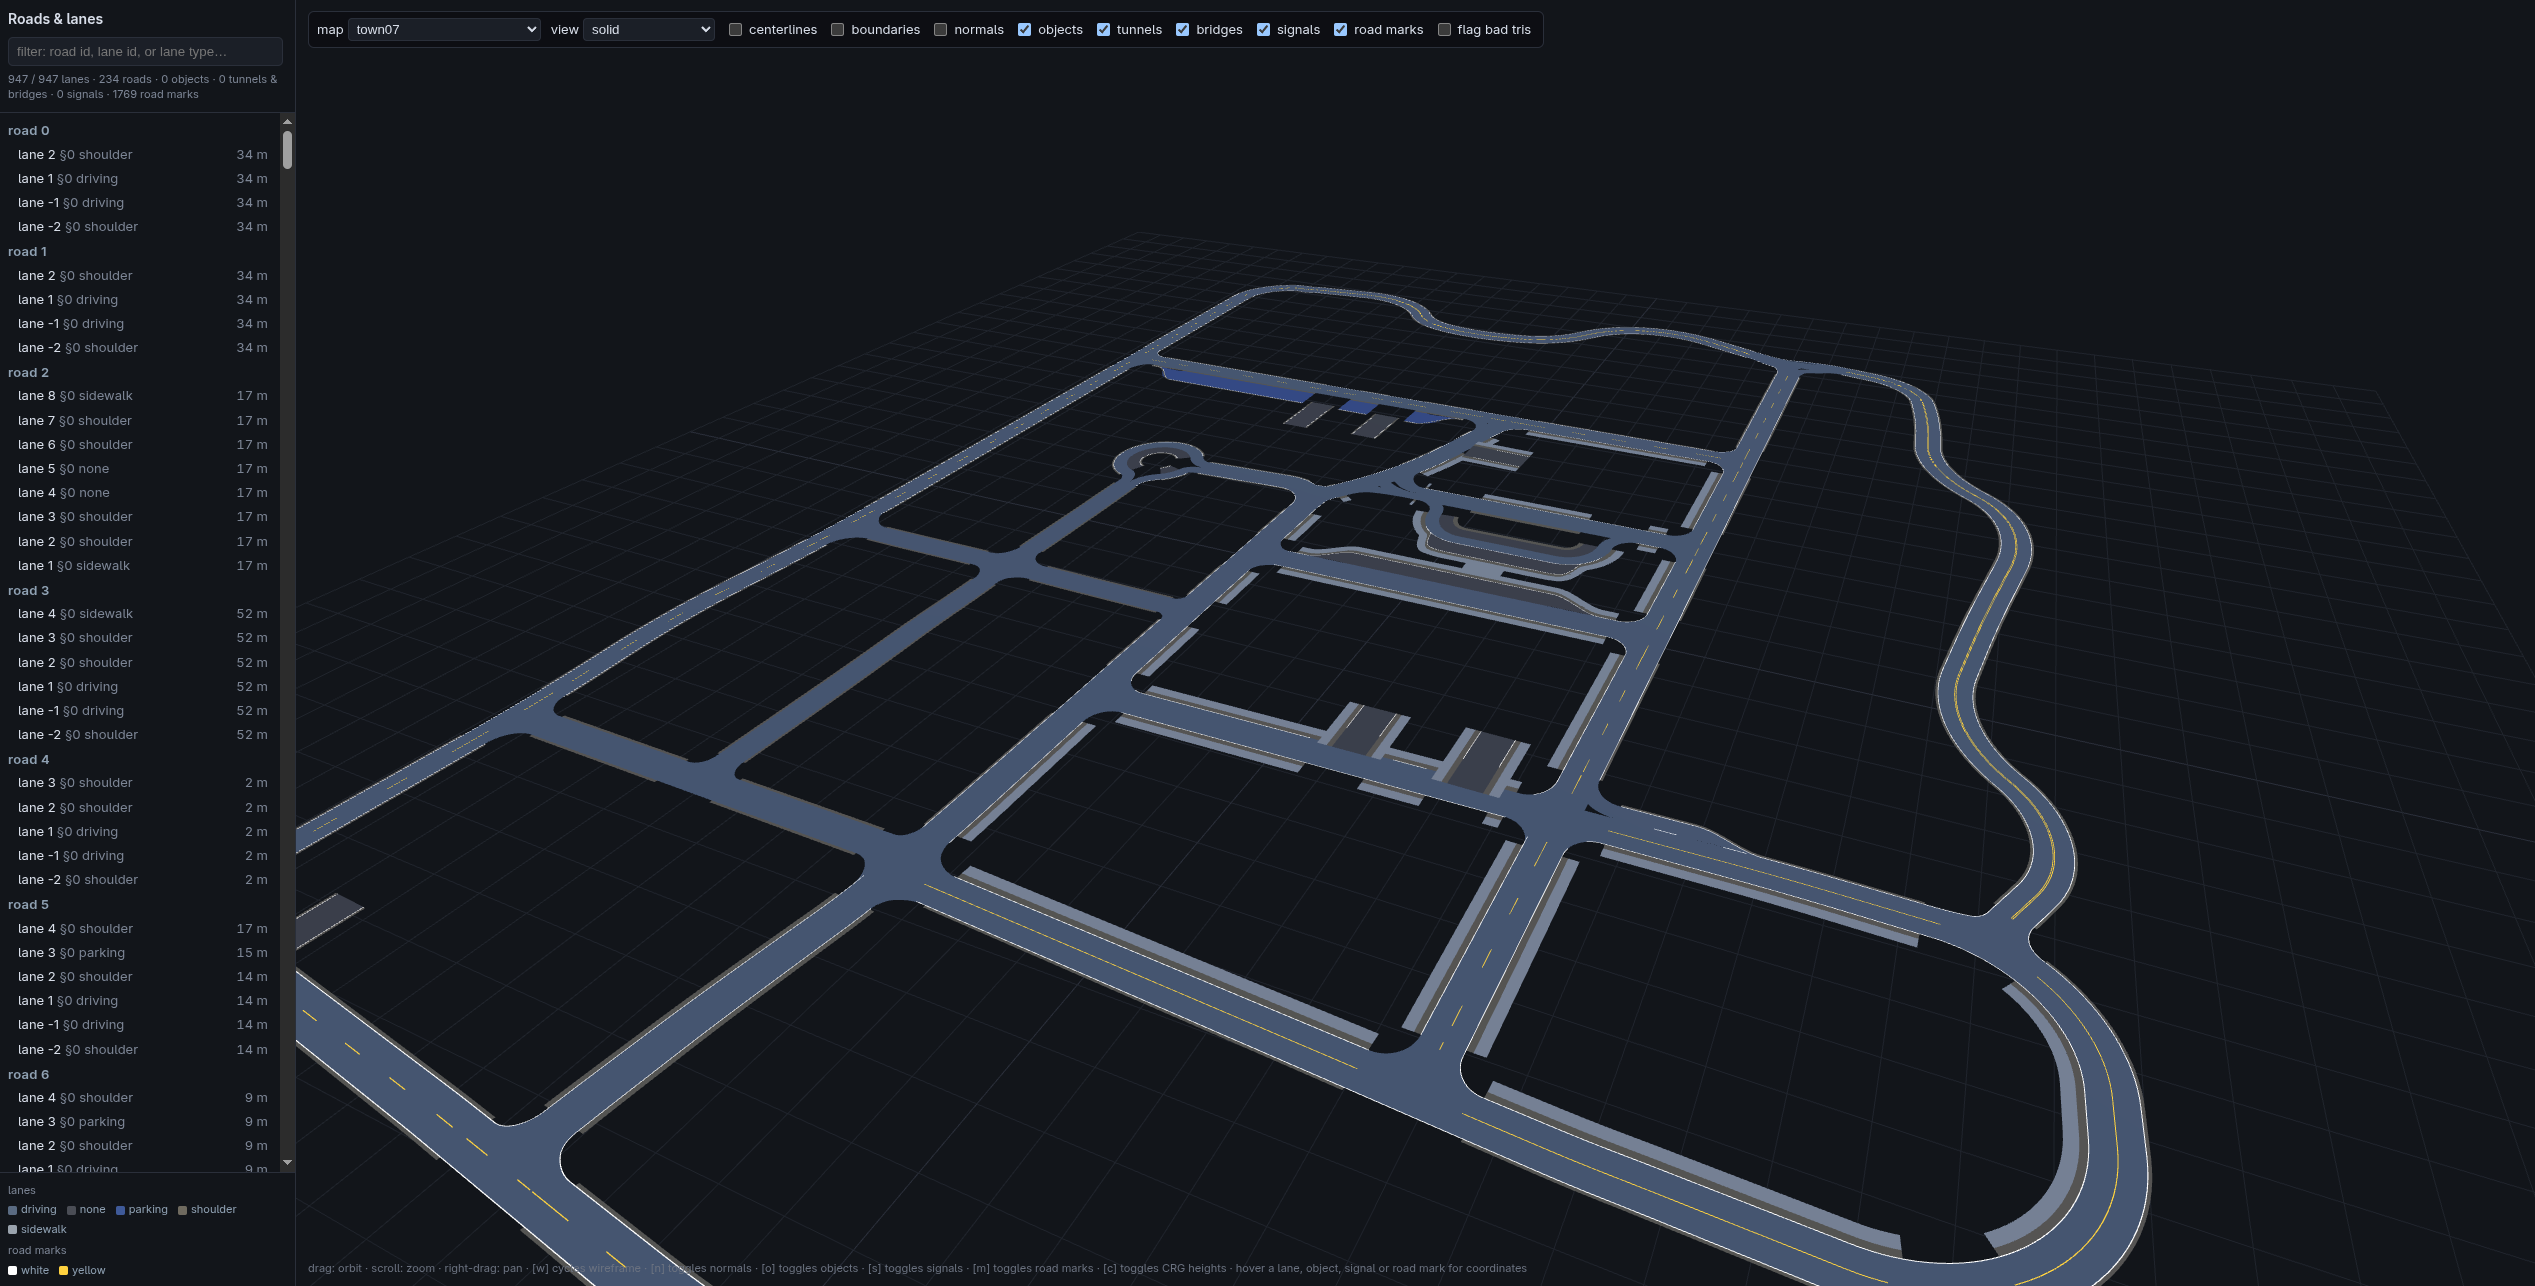
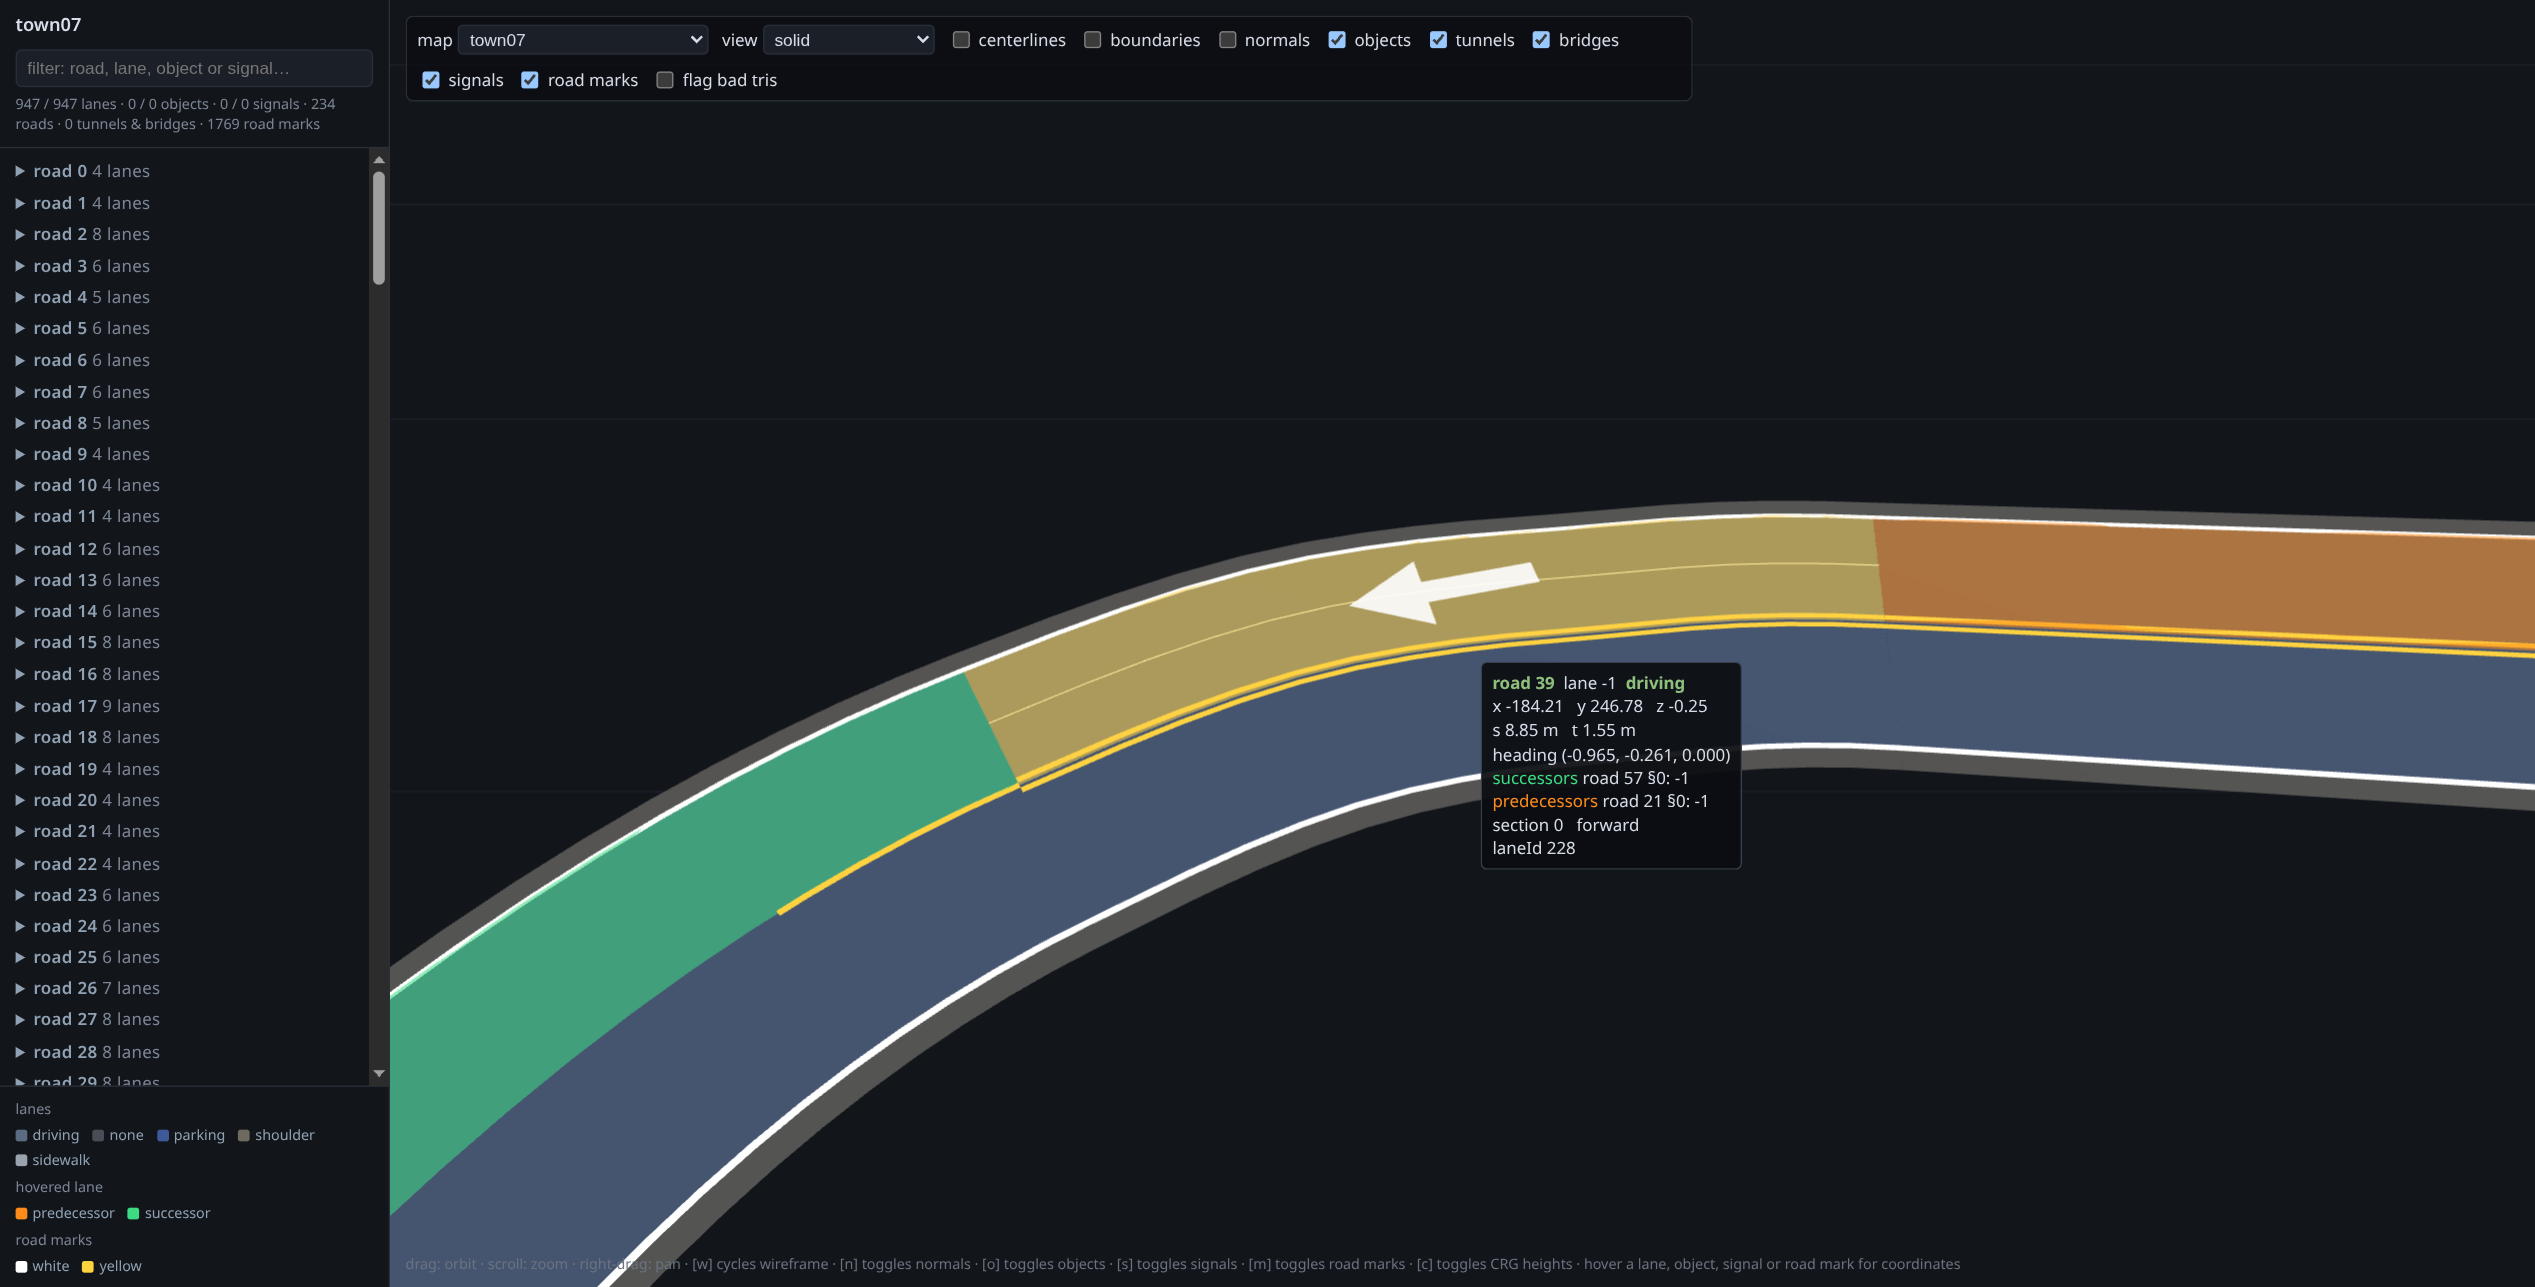
docs: update town07 screenshot

diff --git a/viewer/README.md b/viewer/README.md
@@ -8,7 +8,7 @@ The viewer has two parts. `examples/viewer_export.rs` bakes `.xodr` maps
 into JSON in `web/`, and lists them in `web/scenes.json`. `web/index.html`
 draws the one you pick. The crate itself does no rendering.
 
-![Town07 in the viewer](town07.png)
+![Hovering a lane in Town07, with its successor in green and its predecessor in orange](town07.png)
 
 ## Run it
 
